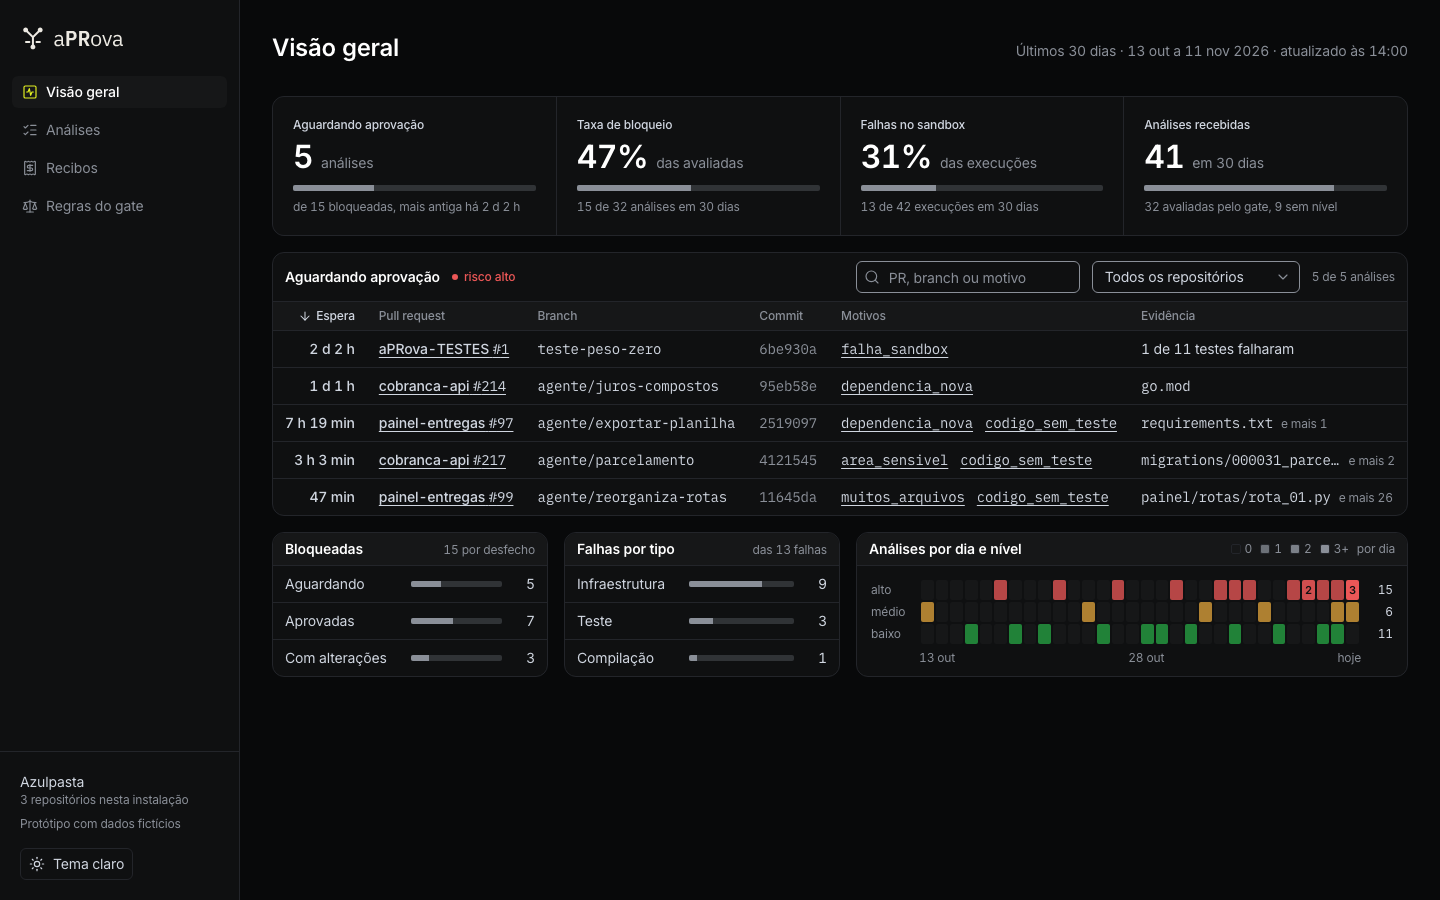
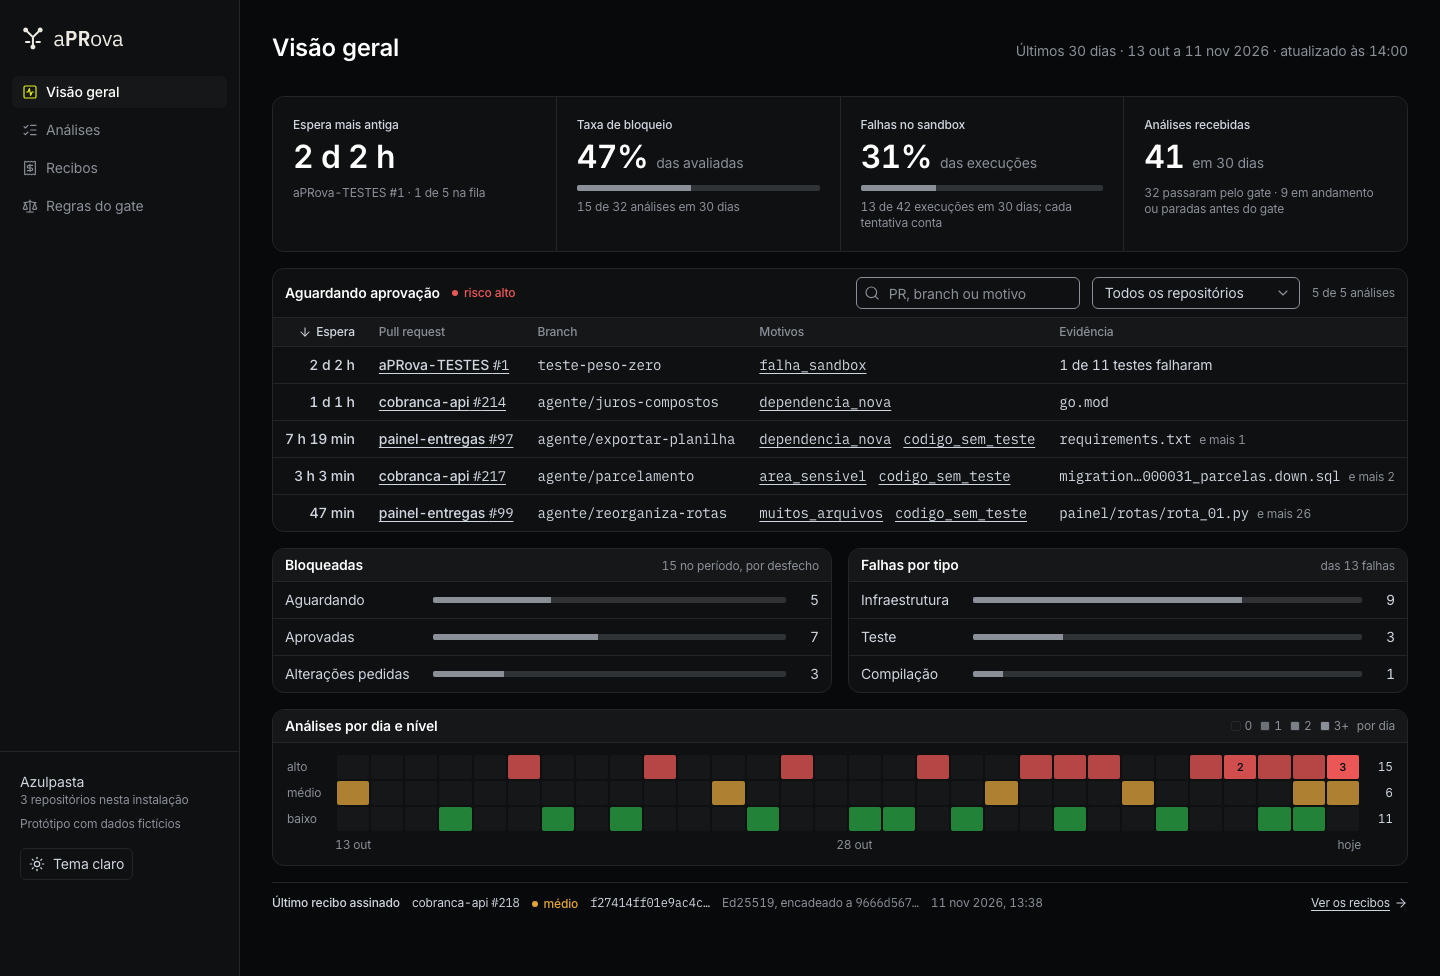
docs(prototipo): faixa, estados, busca, último recibo e mapa clicável no DESIGN.md e prints

diff --git a/design/prototipo/DESIGN.md b/design/prototipo/DESIGN.md
@@ -449,7 +449,7 @@ Grade de 4px, com os passos 4, 8, 12, 16, 20, 24, 32 e 64. Há um meio passo de
 entre o ponto e o texto do selo. A linha de tabela tem 36px: texto de 14/20 com
 8px em cima e embaixo. Há também um passo de 2px, usado só entre as células e
 as linhas do mapa de calor. Desktop primeiro, com quatro pontos de quebra: `md`
-em 768px, `lg` em 1100px, `xl` em 1280px e `2xl` em 1440px.
+em 768px, `lg` em 1100px, `xl` em 1280px, `2xl` em 1440px e `3xl` em 1600px.
 
 **Casca.** A partir de 768px, a navegação é uma barra lateral de 240px sobre o
 fundo de superfície, com borda de 1px à direita e a altura do documento
@@ -467,21 +467,27 @@ cor do acento, e o rodapé da instalação some.
 **Página.** Margem de 16px nos lados, 24px no topo e 64px embaixo; a partir de
 768px, 32px nos lados e no topo. O cabeçalho tem o título e, na mesma linha de
 base, o contexto (período e hora da atualização) em texto secundário; quando
-não cabem, o contexto desce. Abaixo do cabeçalho, 32px.
+não cabem, o contexto desce. Abaixo do cabeçalho, 32px. O contexto não afirma
+o que a tela não sabe: no carregando ele diz "Atualizando…", e no erro, "Última
+atualização às HH:mm", a da última leitura que deu certo.
 
 **Visão geral.** Uma coluna com 16px entre os blocos, nesta ordem: faixa de
-métricas, fila de aprovação, painéis do período. A faixa tem 2 colunas abaixo
-de 1280px e 4 a partir daí. Os painéis são três: "Bloqueadas" (resumo "N por
-desfecho"), "Falhas por tipo" e "Análises por dia e nível", que é o mapa de
-calor. Ficam em 1 coluna no celular, 2 colunas entre 768px e 1280px (o mapa
+métricas, fila de aprovação, painéis do período e a linha do último recibo. A
+faixa tem 2 colunas abaixo de 1280px e 4 a partir daí. Os painéis são três:
+"Bloqueadas" (resumo "N no período, por desfecho", com as linhas Aguardando,
+Aprovadas e Alterações pedidas), "Falhas por tipo" e "Análises por dia e
+nível", que é o mapa de calor e ocupa sozinho a linha de baixo. Ficam em 1 coluna no celular, 2 colunas entre 768px e 1280px (o mapa
 ocupa as duas) e 3 colunas a partir de 1280px, na proporção 1 : 1 : 2.
 
 **Tabela em tela estreita.** A fila perde colunas em vez de rolar: abaixo de
-1440px somem Branch e Commit, para a Evidência caber inteira; entre 768px e
-1100px os motivos se empilham e o respiro lateral das células cai para 8px;
-abaixo de 768px, Motivos e Evidência descem para dentro da célula do pull
-request. A Evidência corta com reticências quando não cabe e mostra o texto
-inteiro no `title`. A rolagem horizontal existe só como reserva.
+1600px some Commit e abaixo de 1440px some Branch, para a Evidência caber;
+entre 768px e 1100px os motivos se empilham e o respiro lateral das células
+cai para 8px; abaixo de 1100px a Evidência desce, inteira, para dentro da
+célula do pull request, e abaixo de 768px os Motivos também. Quando a
+Evidência é um caminho e não cabe, a pasta corta com reticências e o nome do
+arquivo fica sempre inteiro ("migration…000031_parcelas.down.sql"); o caminho
+completo fica no `title`. Na versão empilhada, o caminho quebra só depois das
+barras. A rolagem horizontal existe só como reserva.
 
 **Página não encontrada.** A mensagem e o link vêm primeiro, como texto normal
 de até 65ch. A composição decorativa vem 32px abaixo e ocupa a largura inteira
@@ -566,7 +572,14 @@ composição da Página não encontrada.
 - **Célula:** respiro de 12px por 16px (20px por 20px a partir de 1280px).
   Rótulo em 12px peso 510 na cor do texto primário; valor em 32px peso 590 tabular, na cor de
   título, com a unidade em 14px secundário na mesma linha de base; barra de
-  proporção; linha de apoio em 12px secundário com a fração e o período.
+  proporção só quando o valor é uma porcentagem; linha de apoio em 12px
+  secundário com a fração e o período.
+- **As quatro células:** "Espera mais antiga" (o valor é a espera, e o apoio
+  diz qual PR é e a posição dele na fila, sem repetir a contagem da fila),
+  "Taxa de bloqueio" e "Falhas no sandbox" (porcentagens, com barra, e no apoio
+  das falhas "cada tentativa conta", porque há mais execuções que análises) e
+  "Análises recebidas" (com quantas passaram pelo gate e quantas estão em
+  andamento ou pararam antes dele).
 
 ### Proporção (`Proporcao.tsx`)
 
@@ -619,6 +632,10 @@ composição da Página não encontrada.
   (224px), select de repositório (208px) e a contagem "N de M análises" em 12px
   secundário, anunciada por `role="status"`. Abaixo de 768px a busca ocupa a
   largura inteira e o select divide a linha com a contagem.
+- **Busca:** procura em repositório, número do PR, branch, commit, id dos
+  motivos e evidências. O texto é dividido por espaços e todos os termos
+  precisam aparecer, então "falha sandbox" encontra `falha_sandbox` e
+  "migrations" encontra a evidência.
 - **Limpar filtros:** aparece só quando o filtro não devolve nenhuma linha, na
   frase que explica o vazio, com aparência de link: texto primário sublinhado.
 - **Fila vazia:** se não há nada à espera, a tabela dá lugar a uma frase em
@@ -641,8 +658,12 @@ de cor. O raio de 24px, as sombras, a escala no hover, a mola e as animações d
 entrada da referência não são usados.
 
 - **Matriz:** 3 linhas, uma por nível, na ordem alto, médio, baixo, e uma
-  coluna por dia do período (30). Cada célula tem 20px de altura e raio de 2px,
-  com 2px entre células e entre linhas. As células dividem a largura por igual.
+  coluna por dia do período (30). Cada célula tem 24px de altura, pelo menos
+  24px de largura e raio de 2px, com 2px entre células e entre linhas. O painel
+  ocupa uma linha inteira, abaixo dos outros dois; quando as 30 colunas não
+  cabem (abaixo de 900px de largura do mapa), o mapa rola na horizontal dentro
+  do painel, abre já mostrando hoje e mantém a coluna do nível fixa à
+  esquerda.
 - **Intensidade:** a célula vazia tem o fundo elevado. As outras têm a cor de
   risco da linha misturada na superfície em três passos fixos pela contagem:
   76% para uma análise, 88% para duas e 100% para três ou mais. Passos fixos,
@@ -663,9 +684,15 @@ entrada da referência não são usados.
   é um `<td>` com rótulo ("9 nov, alto: 1 análise"). A tabela é o único ponto
   de tabulação; a célula ativa vem por `aria-activedescendant` e ganha
   contorno de 2px no acento. As setas andam entre dias e níveis, Home e End vão
-  ao primeiro e ao último dia, Escape fecha a dica. As células não são
-  focáveis nem clicáveis, então não são alvos de toque e o mínimo de 24px do
-  WCAG 2.5.8 não se aplica a elas. No foco ou no ponteiro aparece uma dica
+  ao primeiro e ao último dia, Escape fecha a dica.
+- **Destino:** a célula leva às análises que ela conta. Com uma análise, a
+  célula inteira é um link para `/analises/<id>`; com duas ou mais, abre uma
+  lista (Radix Popover, `ListaDaCelula.tsx`) com cada análise, repositório,
+  número do PR e hora de chegada, cada linha um link de 32px; a vazia não é
+  clicável. Pelo teclado, Enter ou espaço na célula ativa faz o mesmo, e ao
+  fechar a lista o foco volta à grade. Os links e botões dentro das células têm
+  `tabindex="-1"`, para a grade continuar com um único ponto de tabulação. No
+  hover, a célula clicável ganha contorno de 1px na cor do título. No foco ou no ponteiro aparece uma dica
   (`role="tooltip"`, ligada por `aria-describedby`) com o mesmo texto, em 12px
   sobre fundo elevado com borda de 1px; na linha de cima ela abre para baixo,
   para não cobrir a escala, e nas pontas se alinha à borda da grade. O
@@ -693,16 +720,32 @@ entrada da referência não são usados.
   aviso de protótipo em 12px secundário.
 - **Pular para o conteúdo:** primeiro elemento focável, visível só com foco.
 
+### Último recibo (`UltimoRecibo.tsx`)
+
+Uma linha discreta no fim da Visão geral, para o diferencial do aPRova aparecer
+na tela de entrada sem disputar com a fila.
+
+- **Forma:** linha com borda de 1px em cima e 12px de respiro, sem fundo
+  próprio, em 12px secundário.
+- **Conteúdo:** "Último recibo assinado" em peso 510 primário, o repositório e
+  o PR, o nível em selo de ponto, os 16 primeiros caracteres do hash em Plex
+  Mono, "Ed25519, encadeado a" com os 8 primeiros do hash anterior, a data e
+  hora da assinatura e o link "Ver os recibos", alinhado à direita. Os hashes
+  completos ficam no `title`.
+
 ### Página e estados (`Pagina.tsx`, `Esqueleto.tsx`)
 
-- **Carregando:** blocos de esqueleto com fundo elevado, nas medidas do
-  conteúdo que vai chegar, parados. Os que ficam no lugar da faixa de métricas
-  e dos painéis têm raio de 12px; os pequenos, 4px. A lista de esqueleto, que fica
-  no lugar da fila, é um bloco de superfície com borda de 1px e raio de 12px.
-  Um texto para leitor de tela diz o que está carregando.
+- **Carregando:** blocos de esqueleto com fundo elevado, parados, com a forma
+  e a altura do que vai chegar, para a tela não pular. A faixa é um bloco só,
+  com emenda, e quatro células com rótulo, valor, barra e duas linhas de apoio.
+  A fila tem a faixa da barra de ferramentas, a do cabeçalho e cinco linhas de
+  36px. Os painéis têm a altura dos reais e raio de 12px. Um texto para leitor
+  de tela diz o que está carregando.
 - **Erro:** bloco de superfície com borda de 1px, raio de 12px e 24px de
   respiro, até 65ch: título de 16px peso 590, explicação em texto secundário e
-  o link "Tentar de novo". Não usa vermelho.
+  o link "Tentar de novo". Não usa vermelho. A explicação diz só o que é
+  verdade sem resposta do servidor: as decisões e os recibos ficam gravados no
+  servidor, e o bloqueio no GitHub não depende desta tela.
 - **Vazio:** o mesmo bloco, com título, texto e uma ação opcional.
 
 ### Composição da Página não encontrada (`src/telas/NaoEncontrada.tsx`)
